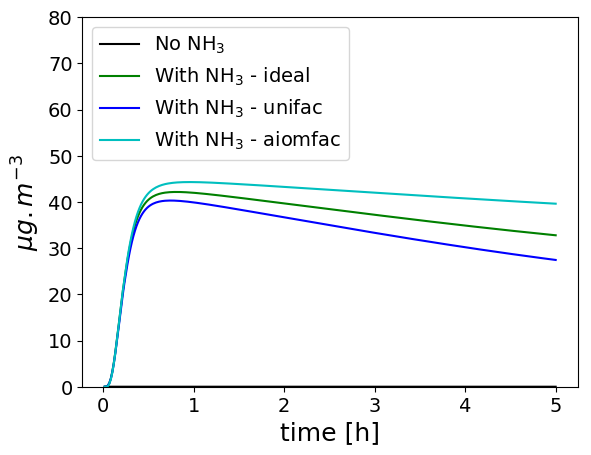
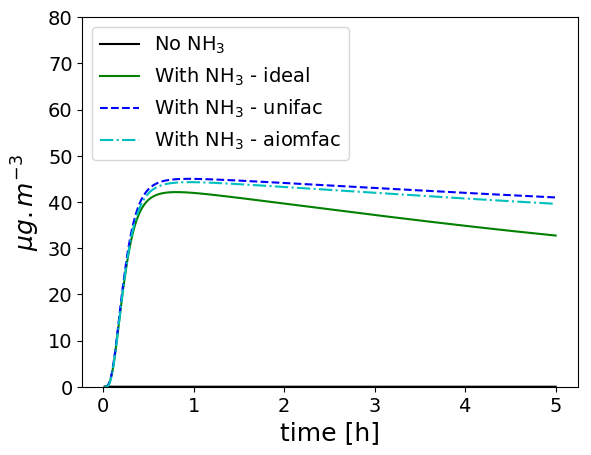
Correct figure for Platt test case.

diff --git a/graph/platt_isop.py b/graph/platt_isop.py
@@ -91,8 +91,8 @@ plt.ylim(0.,80.)
 
 plt.plot(time, isop1,'k-',label='No NH$_3$')
 plt.plot(time, isop2,'g-',label='With NH$_3$ - ideal')
-plt.plot(time, isop3,'b-',label='With NH$_3$ - unifac')
-plt.plot(time, isop4,'c-',label='With NH$_3$ - aiomfac')
+plt.plot(time, isop3,'b--',label='With NH$_3$ - unifac')
+plt.plot(time, isop4,'c-.',label='With NH$_3$ - aiomfac')
 plt.ylabel("$\mu g.m^{-3}$", fontsize=18)
 plt.xlabel("time [h]", fontsize=18)
 plt.legend(loc=2)
